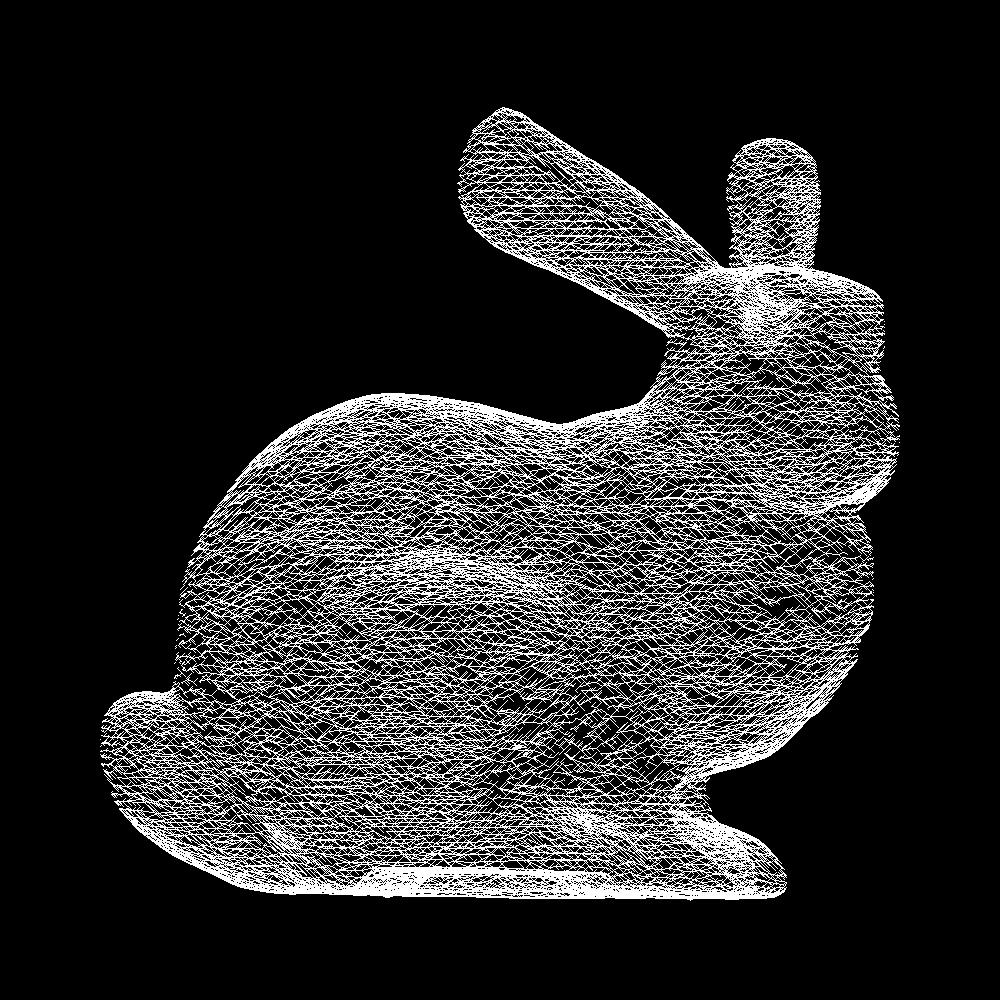
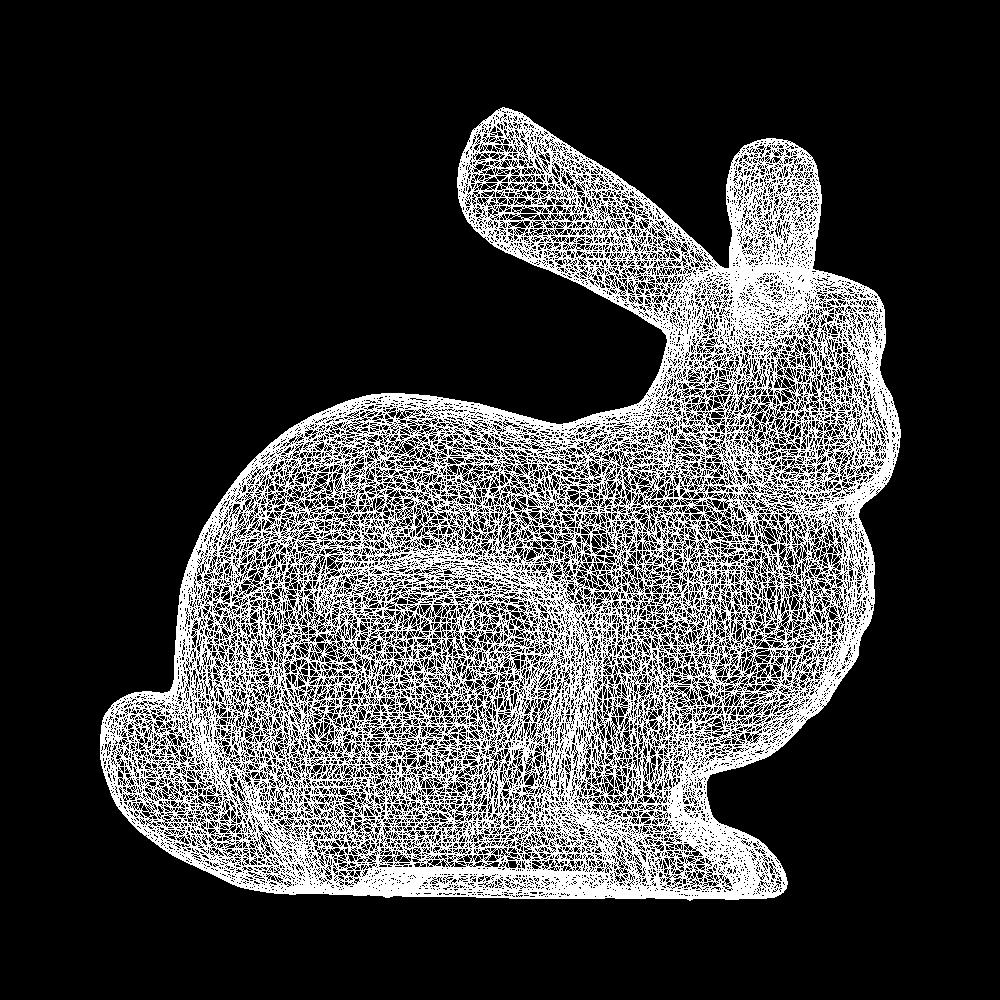
123

Changed region(s): [[0.093, 0.093, 0.899, 0.899]]

diff --git a/Task3.py b/Task3.py
@@ -26,15 +26,14 @@ class Drawer:
     def line3(self, startPoint, finishPoint, image, color):  # Вариант 3
         steep = False
         if math.fabs(startPoint[0] - finishPoint[0]) < math.fabs(startPoint[1] - finishPoint[1]):
-            self.swap(startPoint[0], startPoint[1])
-            self.swap(finishPoint[0], finishPoint[1])
-            self.steep = True
+            startPoint = (startPoint[1], startPoint[0])
+            finishPoint = (finishPoint[1], finishPoint[0])
+            steep = True
         if startPoint[0] > finishPoint[0]:
-            self.swap(startPoint[0], finishPoint[0])
-            self.swap(startPoint[1], finishPoint[1])
+            startPoint, finishPoint = finishPoint, startPoint
         for x in range(startPoint[0], finishPoint[0]):
             t = (x - startPoint[0]) / (finishPoint[0] - startPoint[0])
-            y = int(startPoint[1] * (1 - t) + finishPoint[1] * t)
+            y = int(round(startPoint[1] * (1 - t) + finishPoint[1] * t) )
             if steep:
                 image.set(y, x, color)
             else:
@@ -43,13 +42,12 @@ class Drawer:
     def line4(self, startPoint, finishPoint, image, color):  # Вариант 4. Брезенхем
         steep = False
         if math.fabs(startPoint[0] - finishPoint[0]) < math.fabs(startPoint[1] - finishPoint[1]):
-            self.swap(startPoint[0], startPoint[1])
-            self.swap(finishPoint[0], finishPoint[1])
-            self.steep = True
+            startPoint = (startPoint[1], startPoint[0])
+            finishPoint = (finishPoint[1], finishPoint[0])
+            steep = True
 
         if startPoint[0] > finishPoint[0]:
-            self.swap(startPoint[0], finishPoint[0])
-            self.swap(startPoint[1], finishPoint[1])
+            startPoint, finishPoint = finishPoint, startPoint
 
         dx = -startPoint[0] + finishPoint[0]
         dy = -startPoint[1] + finishPoint[1]
